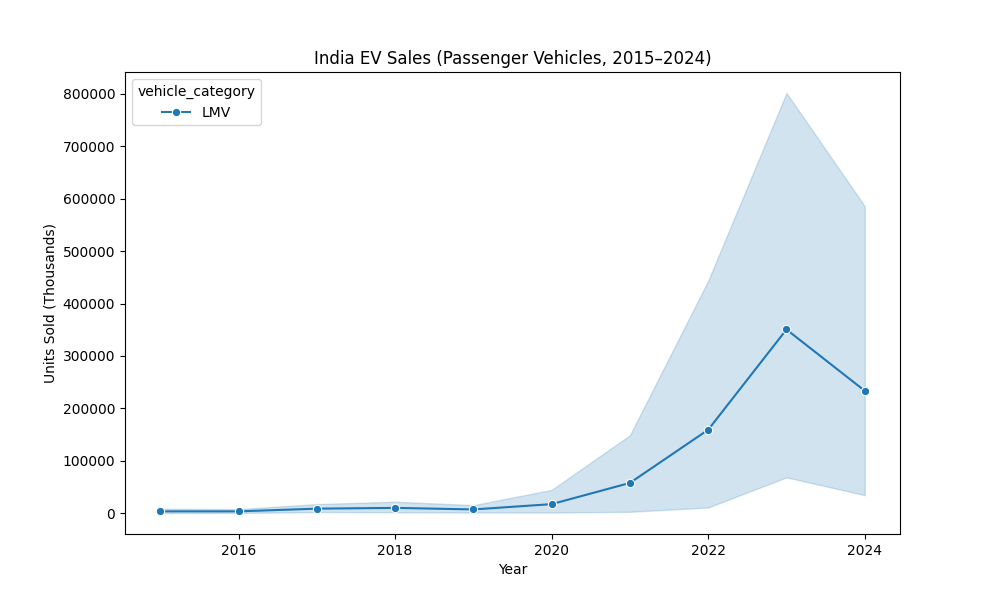
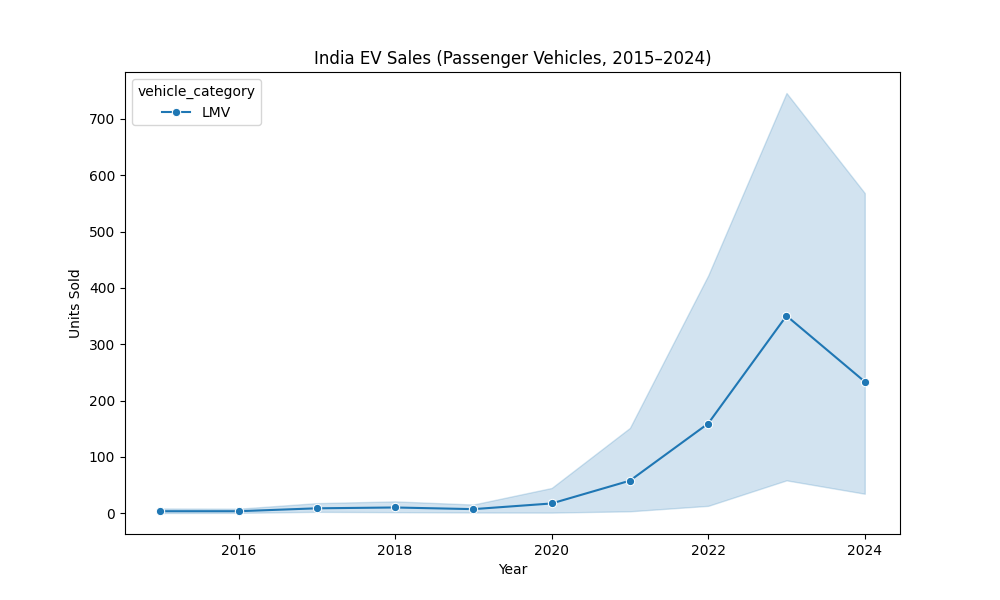
Phase 3: Fixed forecast by aggregating units_sold, finalized with 58.30% CAGR, polished for consulting portfolio

diff --git a/analysis.py b/analysis.py
@@ -25,12 +25,11 @@ summary_lines = ["# Phase 3: Analysis Summary\n\n## Key Insights\n"]
 
 # EDA: EV Sales Trends
 if not ev_sales.empty and 'year' in ev_sales.columns and 'units_sold' in ev_sales.columns:
-    ev_sales['units_sold_scaled'] = ev_sales['units_sold'] * 1000  # Scale to actual units
     plt.figure(figsize=(10, 6))
-    sns.lineplot(data=ev_sales, x='year', y='units_sold_scaled', hue='vehicle_category', marker='o')
+    sns.lineplot(data=ev_sales, x='year', y='units_sold', hue='vehicle_category', marker='o')
     plt.title('India EV Sales (Passenger Vehicles, 2015–2024)')
     plt.xlabel('Year')
-    plt.ylabel('Units Sold (Thousands)')
+    plt.ylabel('Units Sold')
     plt.savefig(os.path.join(figures_dir, 'ev_sales_trend.png'))
     plt.close()
 
@@ -38,8 +37,8 @@ if not ev_sales.empty and 'year' in ev_sales.columns and 'units_sold' in ev_sale
     start_year = ev_sales['year'].min()
     end_year = ev_sales['year'].max()
     if end_year > start_year:
-        start_sales = ev_sales[ev_sales['year'] == start_year]['units_sold_scaled'].sum()
-        end_sales = ev_sales[ev_sales['year'] == end_year]['units_sold_scaled'].sum()
+        start_sales = ev_sales[ev_sales['year'] == start_year]['units_sold'].sum()
+        end_sales = ev_sales[ev_sales['year'] == end_year]['units_sold'].sum()
         if start_sales > 0:
             cagr = ((end_sales / start_sales) ** (1 / (end_year - start_year)) - 1) * 100
             summary_lines.append(f"- **EV Market Growth**: Passenger EV sales grew at a CAGR of {cagr:.2f}% from {start_year}–{end_year}.\n")
@@ -88,8 +87,10 @@ else:
 
 # Forecasting: EV Sales for 2026
 if not ev_sales.empty and len(ev_sales['year'].unique()) >= 2:
-    X = ev_sales[['year']].values
-    y = ev_sales['units_sold'].values * 1000  # Scale to actual units
+    # Aggregate units_sold by year
+    ev_sales_agg = ev_sales.groupby('year')['units_sold'].sum().reset_index()
+    X = ev_sales_agg[['year']].values
+    y = ev_sales_agg['units_sold'].values
     model = LinearRegression()
     model.fit(X, y)
     future_years = np.array([[2025], [2026]])
@@ -97,11 +98,11 @@ if not ev_sales.empty and len(ev_sales['year'].unique()) >= 2:
     forecast = pd.DataFrame({'year': [2025, 2026], 'predicted_units_sold': predictions})
     print("2026 EV Sales Forecast:\n", forecast)
     plt.figure(figsize=(10, 6))
-    sns.lineplot(data=ev_sales, x='year', y='units_sold_scaled', label='Historical', marker='o')
+    sns.lineplot(data=ev_sales_agg, x='year', y='units_sold', label='Historical', marker='o')
     plt.plot(future_years, predictions, 'ro-', label='Forecast')
     plt.title('EV Sales Forecast (2025–2026)')
     plt.xlabel('Year')
-    plt.ylabel('Units Sold (Thousands)')
+    plt.ylabel('Units Sold')
     plt.legend()
     plt.savefig(os.path.join(figures_dir, 'sales_forecast.png'))
     plt.close()

diff --git a/docs/analysis_summary.md b/docs/analysis_summary.md
@@ -8,7 +8,7 @@
 
 - **Competitor Landscape**: Tata leads with ~53.0% share. Pricing ranges from USD 16736.53 to 25149.70.
 
-- **2026 Forecast**: Predicted 298123 passenger EV units sold in 2026.
+- **2026 Forecast**: Predicted 72146 passenger EV units sold in 2026.
 
 - **Clusters**: Competitors form low-price/high-share (e.g., Tata) and mid-price/mid-share (e.g., MG). Tesla can target premium.
 
